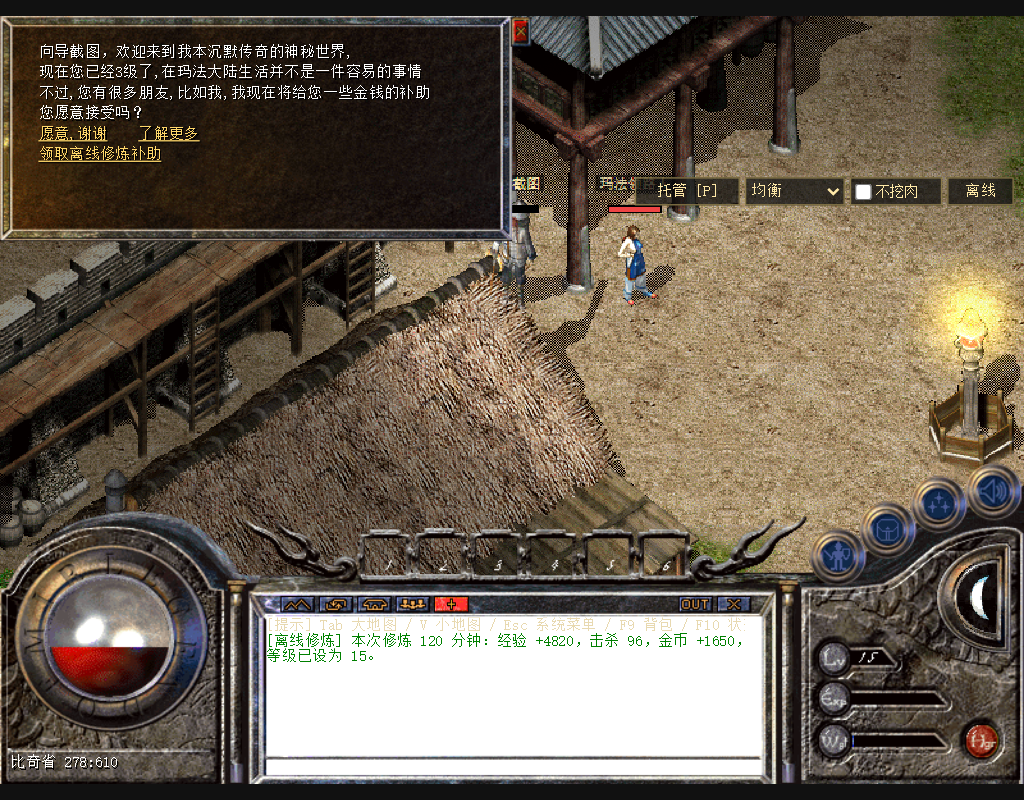
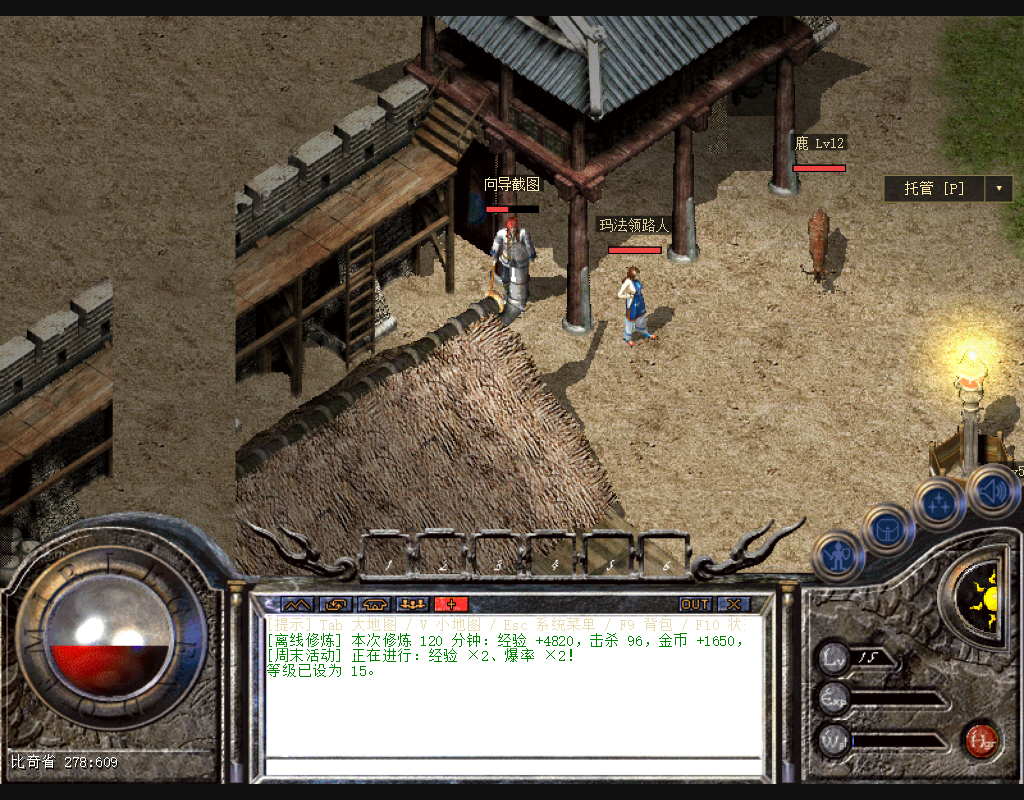
[托管] 托管 HUD 折叠菜单改造与配套截图回归更新

diff --git a/scripts/snap_afk_guide.py b/scripts/snap_afk_guide.py
@@ -125,7 +125,9 @@ def main() -> int:
                 "window.__sceneManager.current && "
                 "window.__sceneManager.current.constructor.name === 'PlayScene'",
                 timeout=25000)
-            page.wait_for_selector("#afkBtn", timeout=25000)
+            page.wait_for_selector("#autoPilotMenuBtn", timeout=25000)
+            page.click("#autoPilotMenuBtn")           # 展开托管菜单（离线入口已折叠进去）
+            page.wait_for_selector("#afkBtn", state="visible", timeout=5000)
 
             # 1. 登录报告弹窗（先截，截完关闭）
             page.wait_for_selector("#afkReportPanel", timeout=10000)
@@ -149,7 +151,7 @@ def main() -> int:
 
             # 4. 玛法领路人对话：GM 传送到 NPC 旁，点 NPC
             page.fill("#afkMinutes", "10")  # 还原，避免留下奇怪状态（截图已拍完）
-            page.click("#afkBtn")           # 关面板
+            page.click('#afkPanel div[title="关闭"]')  # 用面板 × 关闭（afkPanel 盖住了折叠菜单入口）
             page.click("#screen")           # 聚焦画布
             page.evaluate("""() => {
                 const s = window.__sceneManager.current;

diff --git a/scripts/test_afk_ui.py b/scripts/test_afk_ui.py
@@ -148,7 +148,9 @@ def main() -> int:
                 "window.__sceneManager.current && "
                 "window.__sceneManager.current.constructor.name === 'PlayScene'",
                 timeout=25000)
-            page.wait_for_selector("#afkBtn", timeout=25000)
+            page.wait_for_selector("#autoPilotMenuBtn", timeout=25000)
+            page.click("#autoPilotMenuBtn")           # 展开托管菜单（离线入口已折叠进去）
+            page.wait_for_selector("#afkBtn", state="visible", timeout=5000)
             check("进入游戏且「离线」按钮已渲染", True)
 
             print("\n=== afkReport 登录推送弹窗 ===")

diff --git a/scripts/test_autopilot_ui.py b/scripts/test_autopilot_ui.py
@@ -144,8 +144,9 @@ def main() -> int:
             check("状态跟随 tick 更新", text_busy != "" and "托管中" in text_busy,
                   text_busy)
 
-            print("\n=== 「不挖肉」勾选框 ===")
-            page.wait_for_selector("#autoPilotNoButch", timeout=5000)
+            print("\n=== 「不挖肉」勾选框（折叠在 ▾ 菜单内）===")
+            page.click("#autoPilotMenuBtn")
+            page.wait_for_selector("#autoPilotNoButch", state="visible", timeout=5000)
             check("不挖肉勾选框已渲染", True)
             page.check("#autoPilotNoButch")
             page.wait_for_timeout(300)
